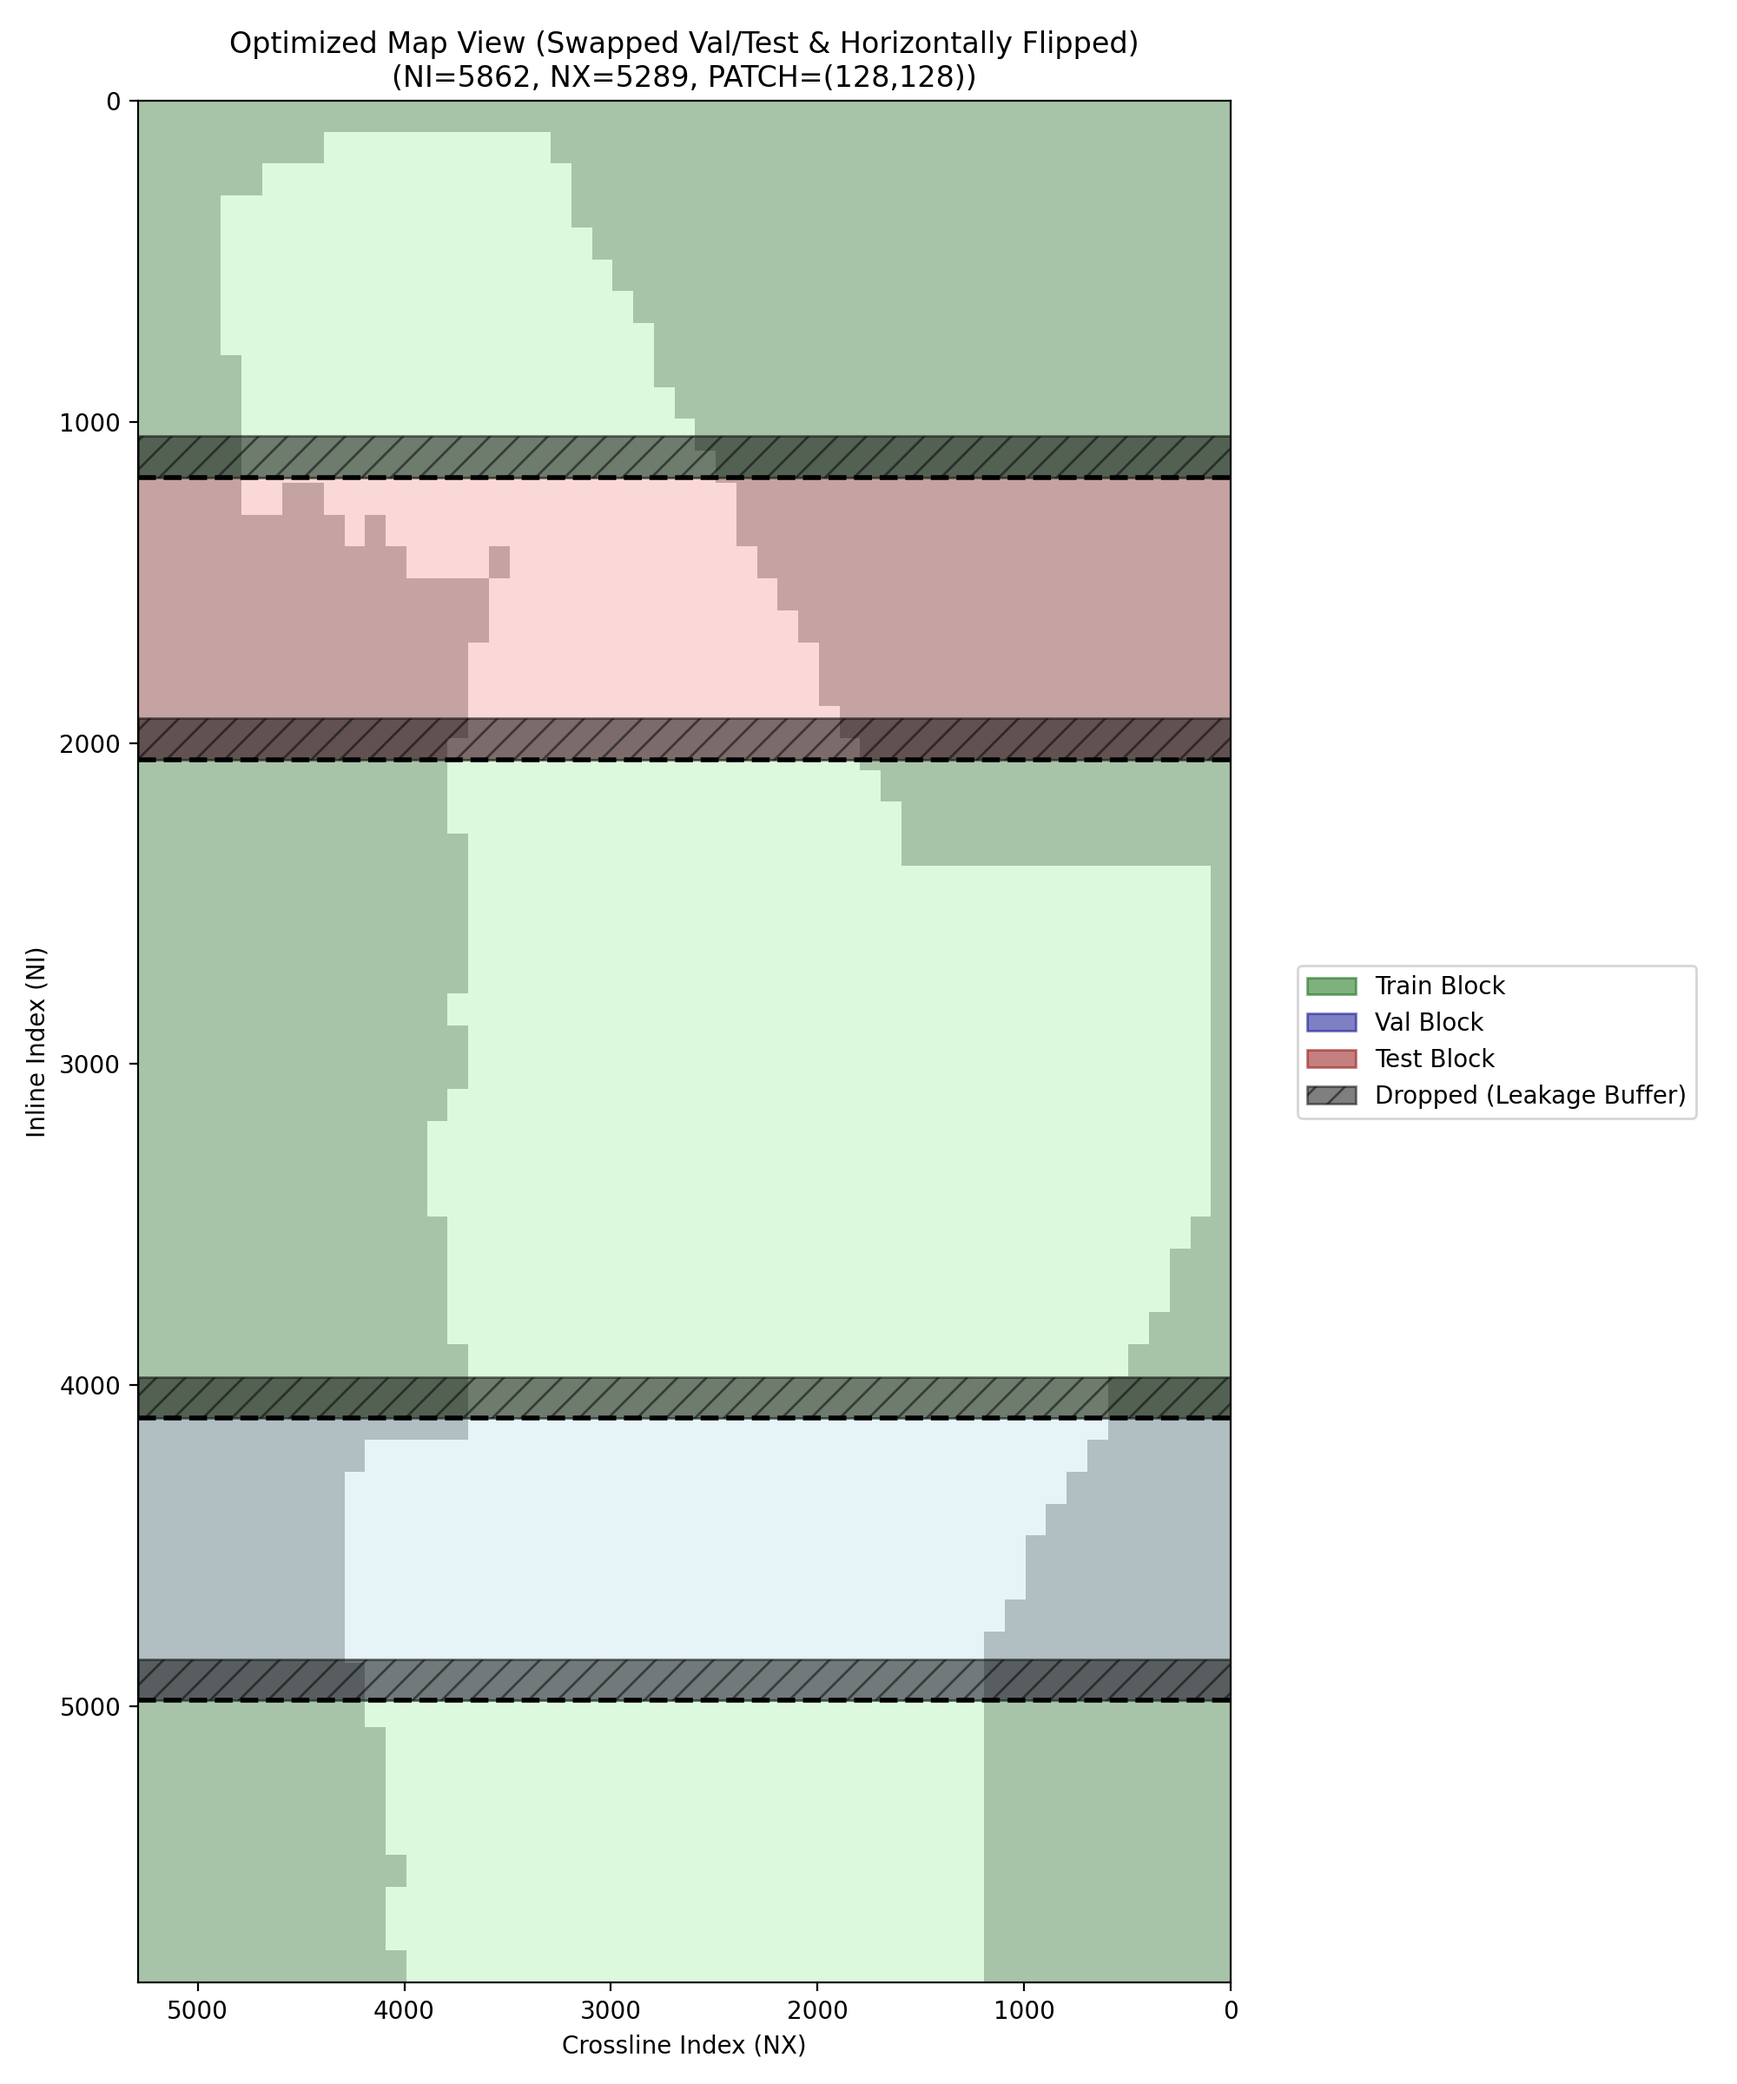
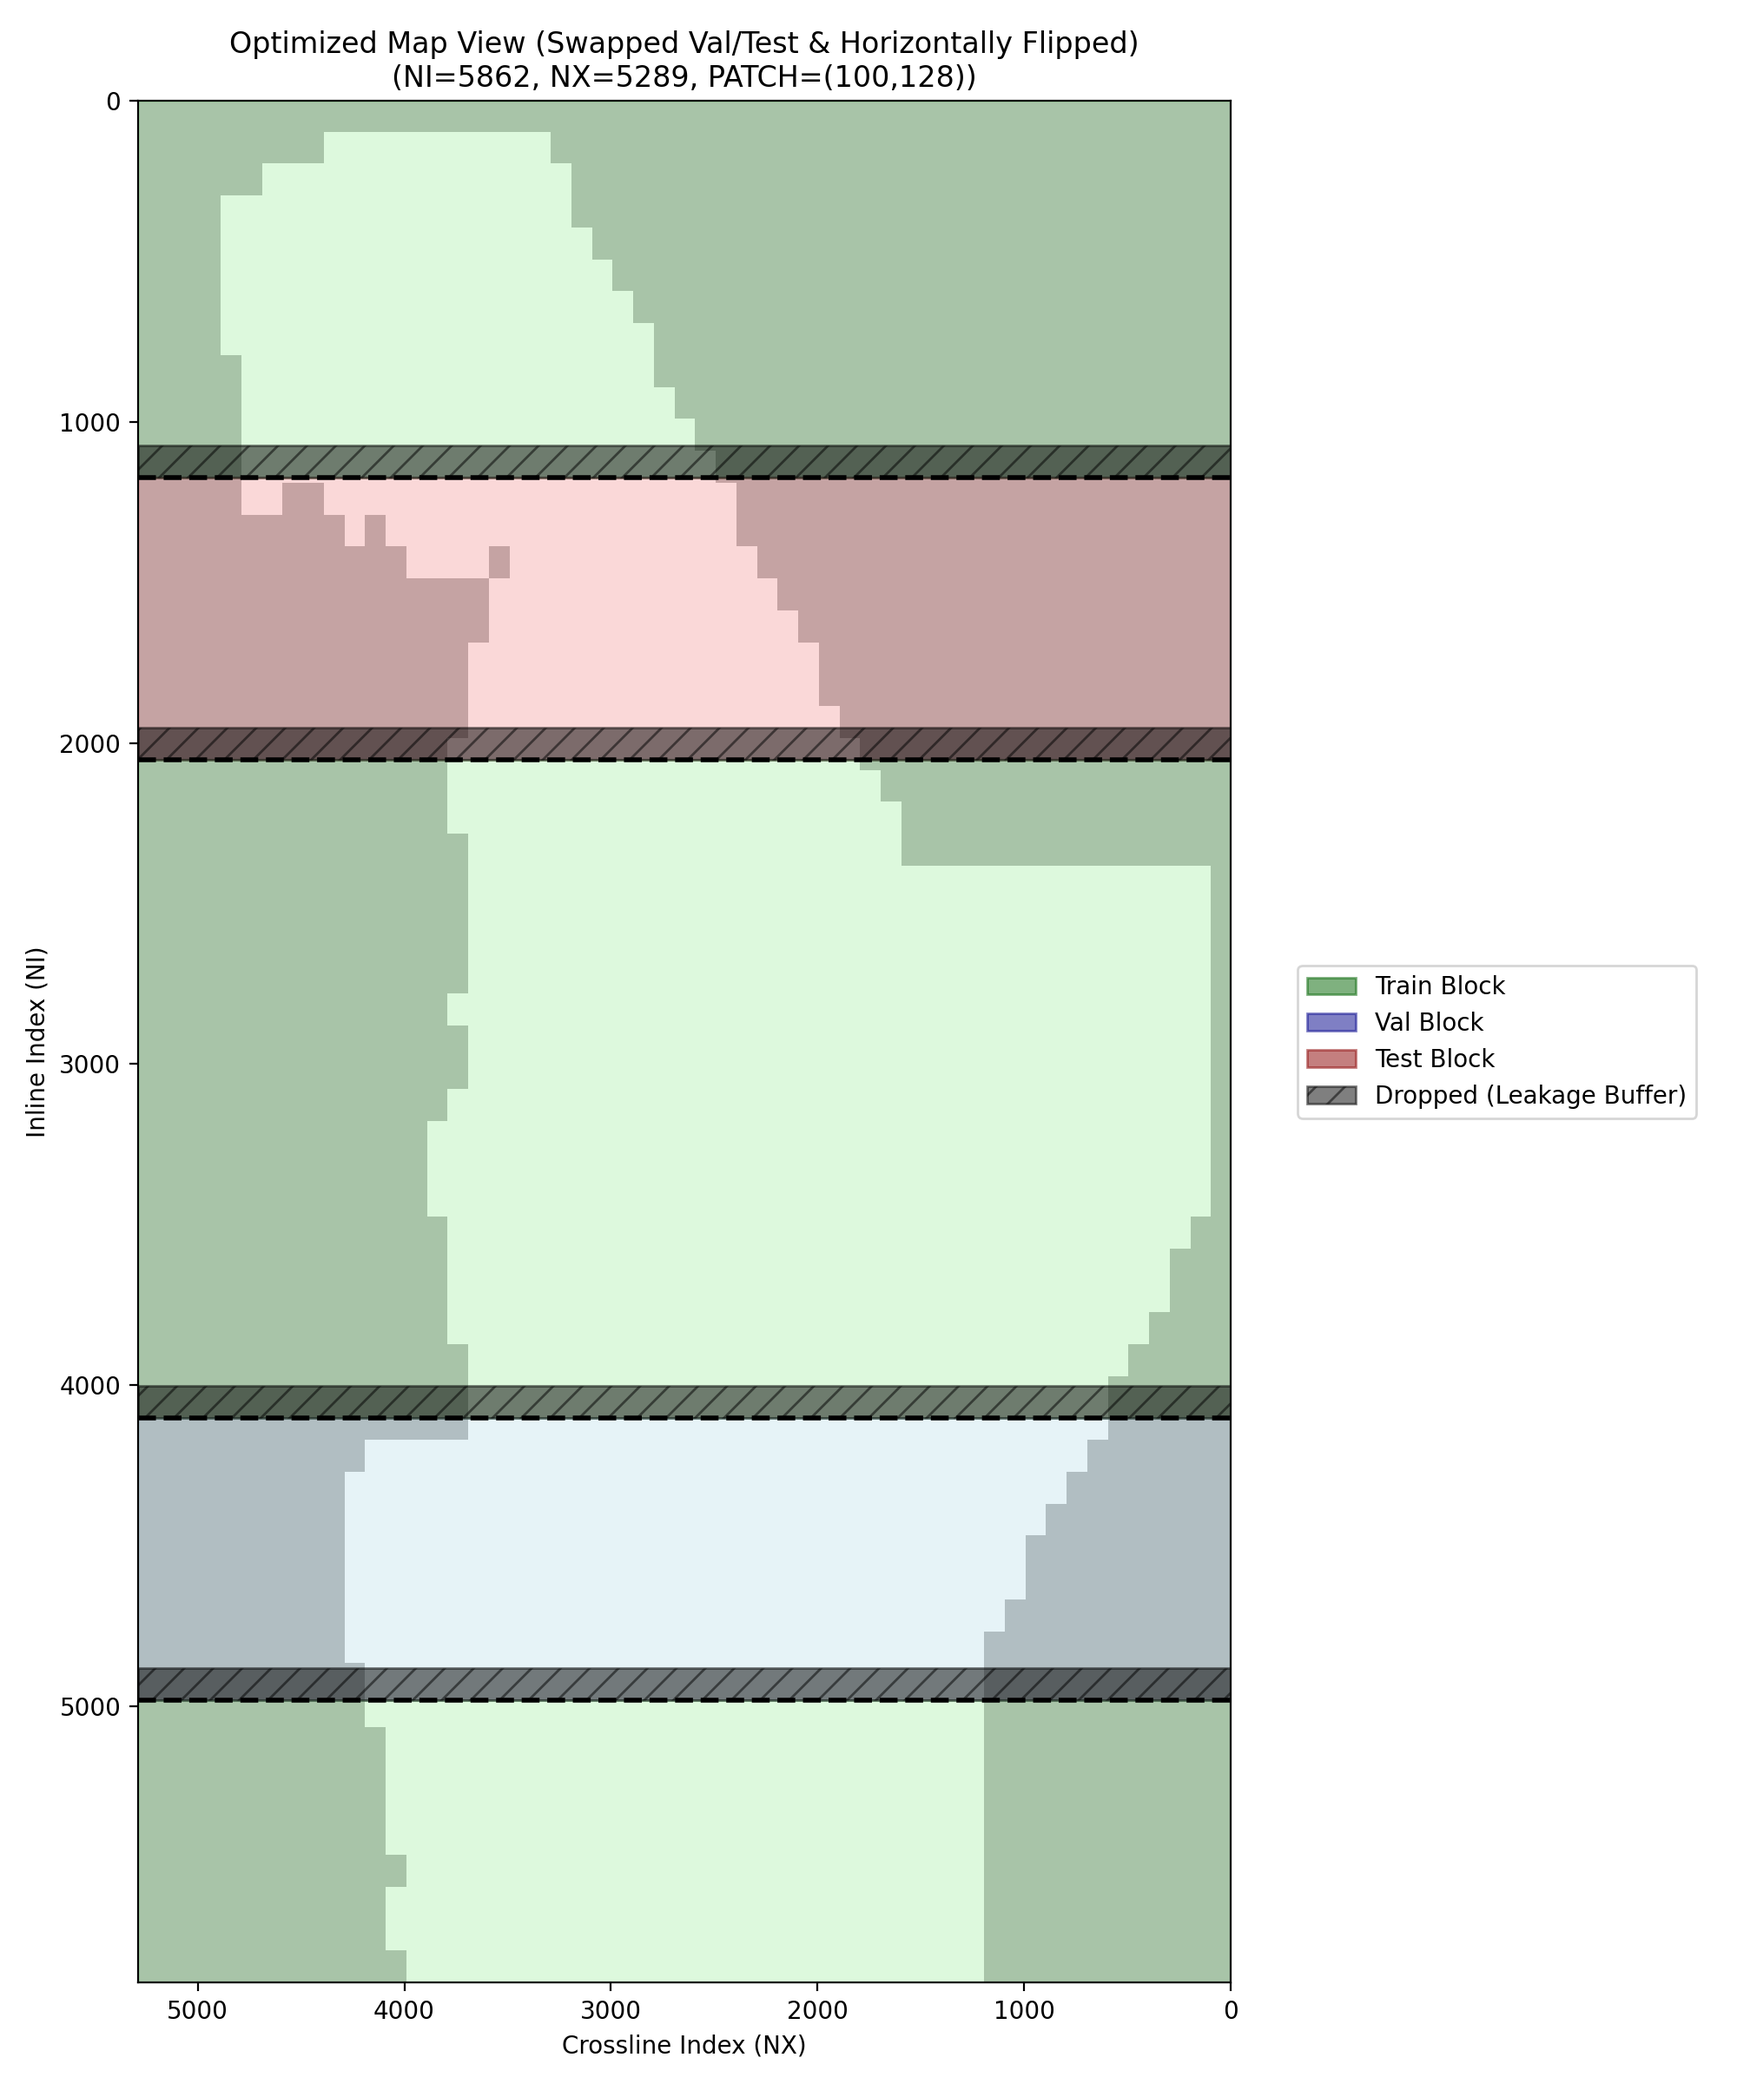
repatched field data for salt3dnet inference

diff --git a/src/inference/tensorfield.py b/src/inference/tensorfield.py
@@ -145,7 +145,7 @@ print("Model weights loaded successfully!")
 # 3. LOAD & PREPROCESS INDIVIDUAL .NPZ FILES
 # ==========================================
 print("Finding test patches...")
-test_dir = r"G:\Working\Students\Undergraduate\For_Vince\Petrel\SaltDetection\data\processed\mississippi128x100seafloor\test"
+test_dir = r"G:\Working\Students\Undergraduate\For_Vince\Petrel\SaltDetection\data\processed\mississippi_100i_128x_128z\train"
 
 # Find all .npz files in the test directory
 all_test_files = glob.glob(os.path.join(test_dir, "*.npz"))
@@ -159,7 +159,6 @@ files_to_view = random.sample(all_test_files, num_examples)
 
 print(f"Loading and predicting {num_examples} patches...")
 
-# 1. Pre-calculate all predictions so we don't have to run the model 3 times
 patch_results = []
 for filepath in files_to_view:
     data = np.load(filepath)
@@ -173,60 +172,37 @@ for filepath in files_to_view:
         
     label_patch = (label_patch == 1).astype(np.float32)
 
-    # Standard reshape: (1, 128, 128, 100, 1)
+    # Standard reshape: (1, 128, 128, 100, 1) -> (Batch, Crossline, Depth, Inline, Channel)
     x_sample = np.reshape(seismic_patch, (1, 128, 128, 100, 1))
     y_true = np.reshape(label_patch, (1, 128, 128, 100, 1))
 
-    # =======================================================
-    # 1. THE HACK: SWAP AXES
-    # Swaps Axis 2 (Crossline) and Axis 3 (Depth)
-    # Shape goes from (1, 128, 128, 100, 1) -> (1, 128, 100, 128, 1)
-    # =======================================================
-    x_rotated = np.swapaxes(x_sample, 2, 3) 
-
-    # =======================================================
-    # 2. BYPASS THE KERAS SHAPE CHECKER
-    # The model rigidly demands (128, 128, 100).
-    # We must pad the 100 up to 128, and crop the 128 down to 100.
-    # =======================================================
-    # Pad Axis 2 (currently 100) with 28 zeros at the end
-    x_padded = np.pad(x_rotated, ((0,0), (0,0), (0,28), (0,0), (0,0)), mode='constant') 
-    # Shape is now (1, 128, 128, 128, 1)
-    
-    # Crop Axis 3 (currently 128) down to 100
-    x_ready = x_padded[:, :, :, :100, :] 
-    # Shape is now (1, 128, 128, 100, 1) - Keras is happy!
-
-    # 3. Predict on the rotated/padded data
-    predictions = model.predict(x_ready, verbose=0)
+    # Predict directly on the properly shaped data
+    predictions = model.predict(x_sample, verbose=0)
     
     # Extract the predicted mask (shape is 128, 128, 100, 1)
     y_pred_mask = (predictions[1][0] > 0.5).astype(np.float32)
     
-    # =======================================================
-    # 4. REVERT EVERYTHING FOR PLOTTING
-    # Undo crop -> Undo pad -> Undo swap
-    # =======================================================
-    # Pad axis 2 (currently 100) back to 128
-    y_revert_pad = np.pad(y_pred_mask, ((0,0), (0,0), (0,28), (0,0)), mode='constant')
-    # Crop axis 1 (currently 128) down to 100
-    y_revert_crop = y_revert_pad[:, :100, :, :]
-    # Swap axes 1 and 2 back to original
-    y_final = np.swapaxes(y_revert_crop, 1, 2)
-    
     # Store for plotting (removing batch and channel dimensions)
+    # Stored shape is (128, 128, 100) -> (Crossline, Depth, Inline)
     patch_results.append({
         'filepath': filepath,
         'seismic': x_sample[0, :, :, :, 0],
         'true': y_true[0, :, :, :, 0],
-        'pred': y_final[:, :, :, 0]
+        'pred': y_pred_mask[:, :, :, 0]
     })
 
-# 2. Define the 3 different slicing geometries
+# ==========================================
+# 4. PREDICT & VISUALIZE
+# ==========================================
+
+# 2. Define the 3 slicing geometries for the native (Crossline, Depth, Inline) shape
 geometries = [
-    {'name': 'Map View (Z-Slice Z=50)', 'axis': 2, 'idx': 50},
-    {'name': 'Crossline Profile (Inline-Slice I=64)', 'axis': 0, 'idx': 64},
-    {'name': 'Inline Profile (Crossline-Slice X=64)', 'axis': 1, 'idx': 64}
+    # Axis 1 is Depth (128). Middle is 64.
+    {'name': 'Map View (Z-Slice Z=64)', 'axis': 1, 'idx': 64},
+    # Axis 2 is Inline (100). Middle is 50. 
+    {'name': 'Crossline Profile (Inline-Slice I=50)', 'axis': 2, 'idx': 50},
+    # Axis 0 is Crossline (128). Middle is 64.
+    {'name': 'Inline Profile (Crossline-Slice X=64)', 'axis': 0, 'idx': 64}
 ]
 
 print("Generating the 3 Geometry Figures...")
@@ -249,34 +225,40 @@ for geo in geometries:
             clean_title = f"Seismic\n{filename[:15]}..."
             
         # Extract the correct 2D slice based on the current geometry
-        if geo['axis'] == 2:
-            # Depth Slice (No transpose needed, shape is 128x128)
-            s_slice = p_data['seismic'][:, :, geo['idx']]
-            t_slice = p_data['true'][:, :, geo['idx']]
-            p_slice = p_data['pred'][:, :, geo['idx']]
-        elif geo['axis'] == 0:
-            # Inline Slice (Transpose so Depth/100 is on the Y-axis)
-            s_slice = p_data['seismic'][geo['idx'], :, :].T
-            t_slice = p_data['true'][geo['idx'], :, :].T
-            p_slice = p_data['pred'][geo['idx'], :, :].T
-        elif geo['axis'] == 1:
-            # Crossline Slice (Transpose so Depth/100 is on the Y-axis)
+        # Remembering our base shape is (Crossline, Depth, Inline)
+        if geo['axis'] == 1:
+            # Depth Slice. Data -> (XL, IL). 
+            # We transpose to (IL, XL) just so Inline is on Y-axis for standard map views.
             s_slice = p_data['seismic'][:, geo['idx'], :].T
             t_slice = p_data['true'][:, geo['idx'], :].T
             p_slice = p_data['pred'][:, geo['idx'], :].T
+            
+        elif geo['axis'] == 2:
+            # Inline Slice (Crossline Profile). Data -> (XL, Depth).
+            # Must transpose to (Depth, XL) so Depth is correctly on the Y-axis!
+            s_slice = p_data['seismic'][:, :, geo['idx']].T
+            t_slice = p_data['true'][:, :, geo['idx']].T
+            p_slice = p_data['pred'][:, :, geo['idx']].T
+            
+        elif geo['axis'] == 0:
+            # Crossline Slice (Inline Profile). Data -> (Depth, IL).
+            # Depth is ALREADY the first dimension, so it automatically plots on Y-axis! NO TRANSPOSE needed here.
+            s_slice = p_data['seismic'][geo['idx'], :, :]
+            t_slice = p_data['true'][geo['idx'], :, :]
+            p_slice = p_data['pred'][geo['idx'], :, :]
 
         # Plot Seismic
-        im1 = ax_row[0].imshow(s_slice, cmap='gray')
+        im1 = ax_row[0].imshow(s_slice, cmap='gray', aspect='auto')
         ax_row[0].set_title(clean_title, fontsize=10)
         fig.colorbar(im1, ax=ax_row[0], fraction=0.046, pad=0.04)
 
         # Plot True Label
-        im2 = ax_row[1].imshow(t_slice, cmap='viridis', vmin=0, vmax=1)
+        im2 = ax_row[1].imshow(t_slice, cmap='viridis', vmin=0, vmax=1, aspect='auto')
         ax_row[1].set_title('True Salt Label', fontsize=10)
         fig.colorbar(im2, ax=ax_row[1], fraction=0.046, pad=0.04)
 
         # Plot Predicted Label
-        im3 = ax_row[2].imshow(p_slice, cmap='viridis', vmin=0, vmax=1)
+        im3 = ax_row[2].imshow(p_slice, cmap='viridis', vmin=0, vmax=1, aspect='auto')
         ax_row[2].set_title('Predicted Salt Label', fontsize=10)
         fig.colorbar(im3, ax=ax_row[2], fraction=0.046, pad=0.04)
         
@@ -285,6 +267,5 @@ for geo in geometries:
         ax_row[1].axis('off')
         ax_row[2].axis('off')
 
-    # Apply your working spacing adjustments
     plt.subplots_adjust(hspace=0.6, wspace=0.3, top=0.92, bottom=0.05)
     plt.show()

diff --git a/src/data_prep/processtensorflow.py b/src/data_prep/processtensorflow.py
@@ -37,17 +37,17 @@ except ImportError:
 SURVEY_NAME = "mississippi"
 SEISMIC_SGY = r"G:\Working\Students\Undergraduate\For_Vince\Petrel\SaltDetection\data\raw\raw_seismic_mississippi.sgy"
 LABEL_SGY   = r"G:\Working\Students\Undergraduate\For_Vince\Petrel\SaltDetection\data\labels\labelmississippi_seafloor.sgy"
-OUT_DIR     = r"G:\Working\Students\Undergraduate\For_Vince\Petrel\SaltDetection\data\processed\mississippi128x100seafloor"
+OUT_DIR     = r"G:\Working\Students\Undergraduate\For_Vince\Petrel\SaltDetection\data\processed\mississippi_100i_128x_128z"
 
-# Independent dimensions for Inline, Crossline, and Depth/Sample
-PATCH_I = 128
-PATCH_X = 128
-PATCH_S = 100
+# Swapped to match the Keras (128, 128, 100) expectation natively
+PATCH_I = 100  # Was 128
+PATCH_X = 128  # Stays 128
+PATCH_S = 128  # Was 100
 
-# Strides (set to 50% overlap to match original script's behavior)
-STRIDE_I = 64
+# Strides adjusted to maintain ~50% overlap for the new sizes
+STRIDE_I = 50
 STRIDE_X = 64
-STRIDE_S = 50
+STRIDE_S = 64
 
 # Keep Probabilities
 KEEP_SALT     = 1.0  # 100%
@@ -272,7 +272,14 @@ def extract_cubes():
                         cat_name = category.split('_')[1] # salt, boundary, rock, empty
                         stats[category] += 1
                         stats[split] += 1
+                        
+                        # Original slice shape: (100, 128, 128) -> (Inline, Crossline, Depth)
                         s_patch = seis_slab[:, x:x+PATCH_X, s:s+PATCH_S]
+                        l_patch = lbl_slab[:, x:x+PATCH_X, s:s+PATCH_S]
+                        
+                        # THE FIX: Transpose to (128, 128, 100) -> (Crossline, Depth, Inline)
+                        s_patch = np.transpose(s_patch, (1, 2, 0))
+                        l_patch = np.transpose(l_patch, (1, 2, 0))
                         
                         # New Naming Convention: mississippi_train_salt_i00128_x03328_s00505.npz
                         filename = f"{SURVEY_NAME}_{split}_{cat_name}_i{i:05d}_x{x:05d}_s{s:05d}.npz"

diff --git a/src/inference/tensorseam.py b/src/inference/tensorseam.py
@@ -194,23 +194,24 @@ for i, sample_index in enumerate(indices_to_view):
     y_pred = predictions[1][0] 
     y_pred_mask = (y_pred > 0.5).astype(np.float32)
 
-    # Extract 2D slices for plotting
-    seismic_slice = x_sample[0, :, :, slice_idx, 0]
-    true_label_slice = y_true[:, :, slice_idx, 0]
-    pred_label_slice = y_pred_mask[:, :, slice_idx, 0]
+    # Extract 2D slices for plotting and hit 'em with the .T (Transpose)
+    # This flips (Crossline, Depth) to (Depth, Crossline) so it plots horizontally!
+    seismic_slice = x_sample[0, :, :, slice_idx, 0].T
+    true_label_slice = y_true[:, :, slice_idx, 0].T
+    pred_label_slice = y_pred_mask[:, :, slice_idx, 0].T
 
     # Plotting logic for this specific row
     ax_row = axes[i]
     
-    im1 = ax_row[0].imshow(seismic_slice, cmap='gray')
+    im1 = ax_row[0].imshow(seismic_slice, cmap='gray_r', aspect='auto')
     ax_row[0].set_title(f'Sample {sample_index}: Seismic (Slice {slice_idx})')
     fig.colorbar(im1, ax=ax_row[0], fraction=0.046, pad=0.04)
 
-    im2 = ax_row[1].imshow(true_label_slice, cmap='viridis', vmin=0, vmax=1)
+    im2 = ax_row[1].imshow(true_label_slice, cmap='viridis', vmin=0, vmax=1, aspect='auto')
     ax_row[1].set_title(f'Sample {sample_index}: True Label')
     fig.colorbar(im2, ax=ax_row[1], fraction=0.046, pad=0.04)
 
-    im3 = ax_row[2].imshow(pred_label_slice, cmap='viridis', vmin=0, vmax=1)
+    im3 = ax_row[2].imshow(pred_label_slice, cmap='viridis', vmin=0, vmax=1, aspect='auto')
     ax_row[2].set_title(f'Sample {sample_index}: Predicted Label')
     fig.colorbar(im3, ax=ax_row[2], fraction=0.046, pad=0.04)
 
